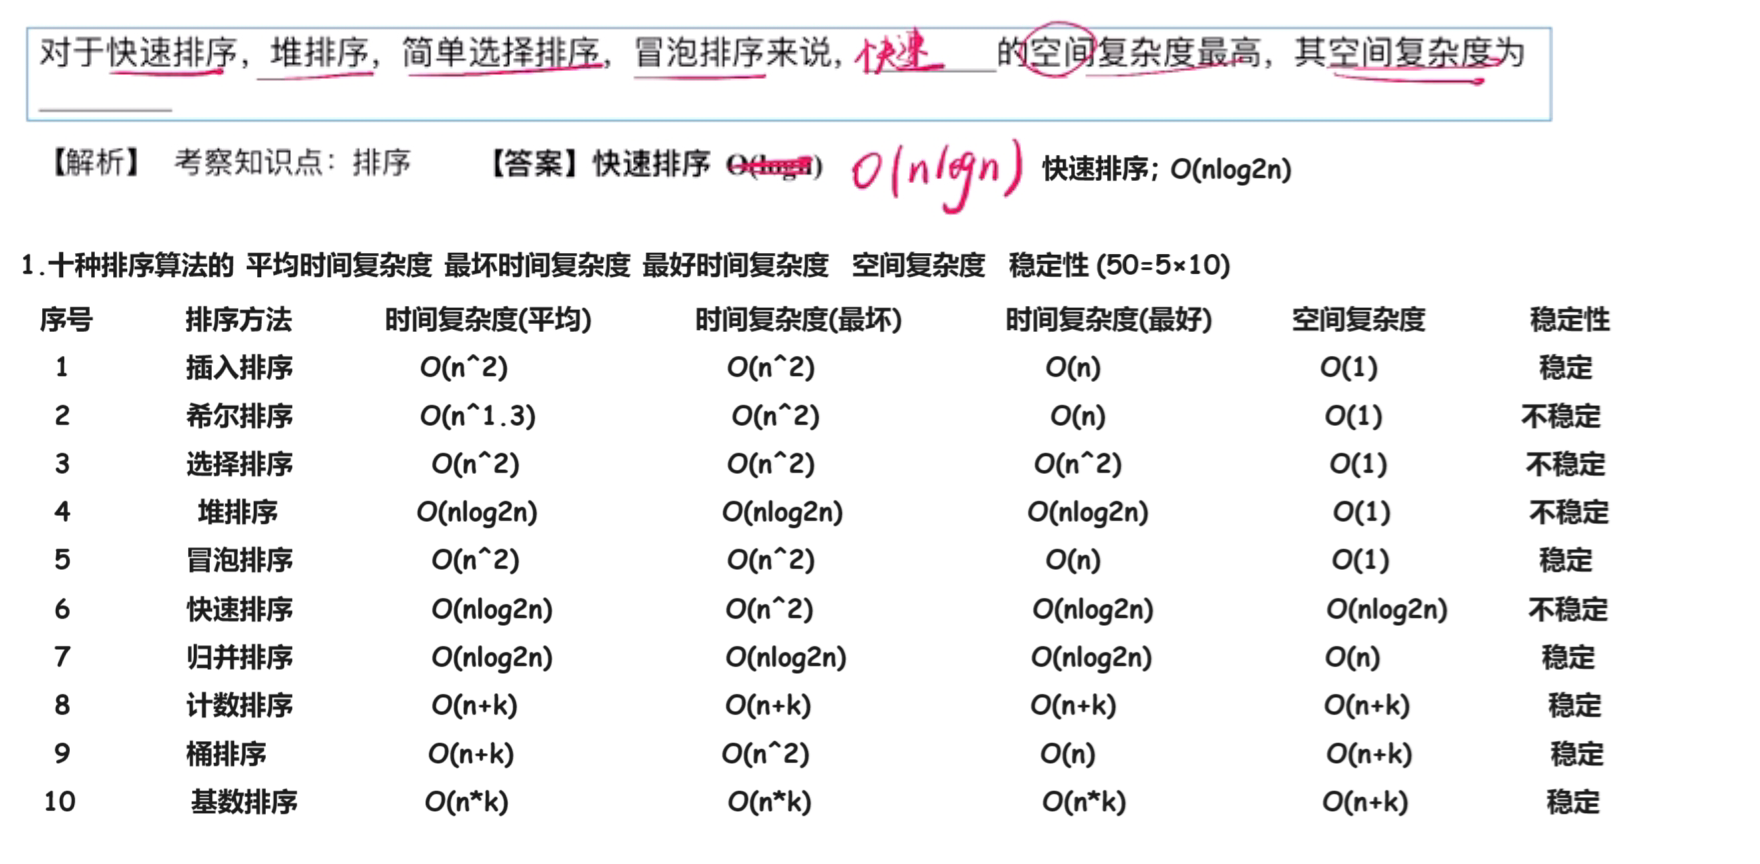
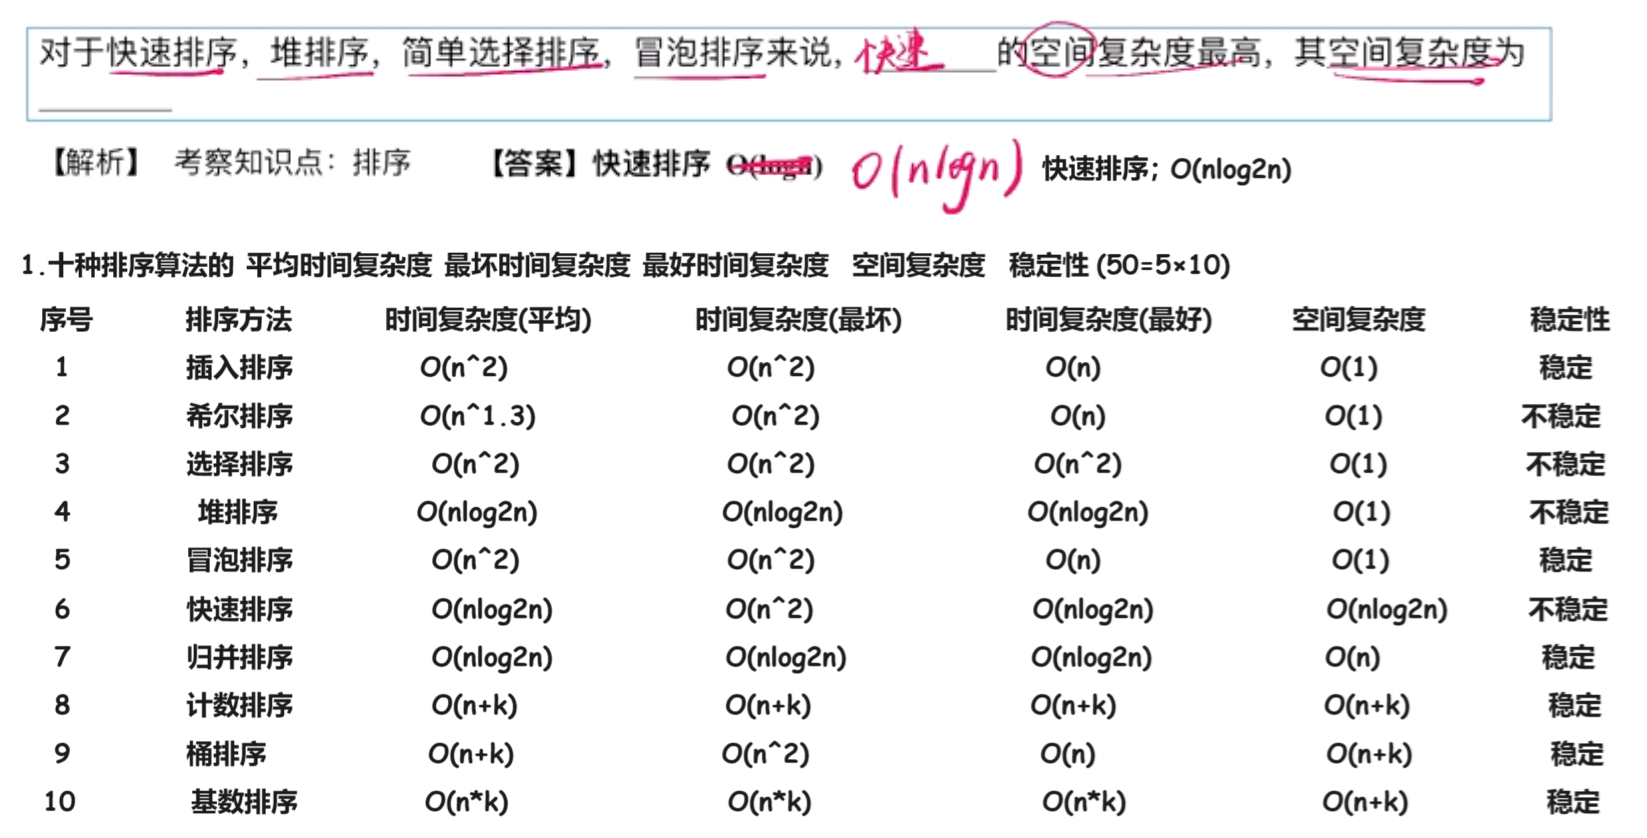
240227

diff --git a/02 DS/01 题集/01 820/01 18/01 小题/01 填空题 4/04 填空题04  快速排序 堆排序 简单选择排序 冒泡排序 空间复杂度 240227/02 Doc.md b/02 DS/01 题集/01 820/01 18/01 小题/01 填空题 4/04 填空题04  快速排序 堆排序 简单选择排序 冒泡排序 空间复杂度 240227/02 Doc.md
@@ -1,9 +1,21 @@
+# 00 背诵
+
+<img src="https://cvp.oss-cn-shanghai.aliyuncs.com/picgo/202402271053206.png" alt="image-20240227105315982" style="zoom:50%;" />
+
+
+
 # 01 题目
 
 <img src="https://cvp.oss-cn-shanghai.aliyuncs.com/picgo/202402131844972.png" alt="image-20240213184402922" style="zoom:50%;" />
 
 
 
-# 02 视频解析
+# 02 答案
 
-<img src="https://cvp.oss-cn-shanghai.aliyuncs.com/picgo/202402131846909.png" alt="image-20240213184608795" style="zoom:50%;" />
+<img src="https://cvp.oss-cn-shanghai.aliyuncs.com/picgo/202402271100935.png" alt="image-20240227110037866" style="zoom:50%;" />
+
+
+
+# 03 视频解析
+
+<img src="https://cvp.oss-cn-shanghai.aliyuncs.com/picgo/202402271056147.png" alt="image-20240227105609985" style="zoom:50%;" />
